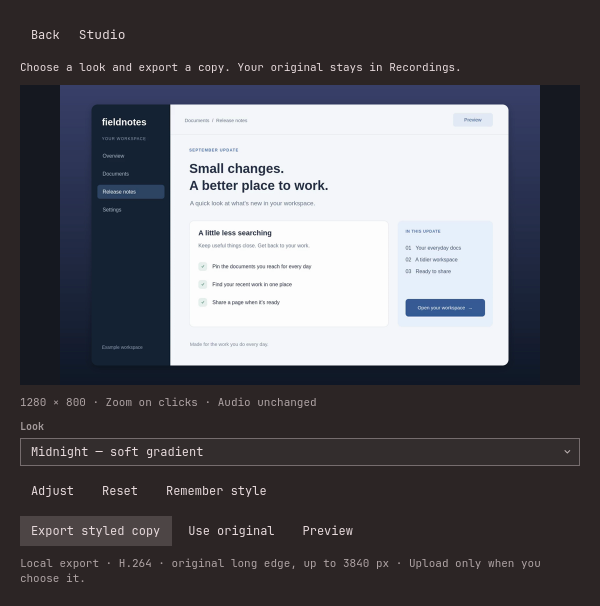
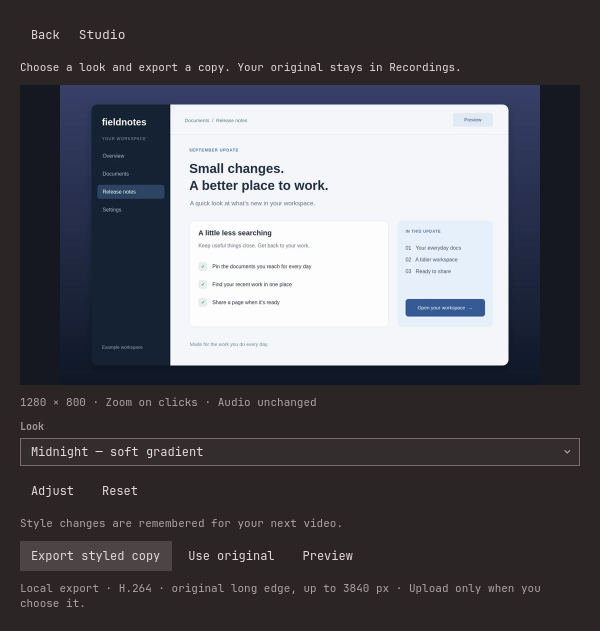
fix: remember Studio adjustments automatically

diff --git a/tests/studio-native.qml b/tests/studio-native.qml
@@ -10,6 +10,8 @@ ShellRoot {
   property bool completed: false
   property bool observedExport: false
   property bool failed: false
+  property bool reopening: __REOPEN__
+  property var remembered: null
   function expect(condition, message) {
     if (!condition) { failed = true; console.error("STUDIO TEST FAIL", message); Qt.quit() }
     return condition
@@ -18,6 +20,14 @@ ShellRoot {
     if (item.text === label && item.clicked !== undefined) return item
     for (var i=0; i<item.children.length; ++i) {
       var found = button(item.children[i], label)
+      if (found) return found
+    }
+    return null
+  }
+  function control(item, label) {
+    if (item.label === label) return item
+    for (var i=0; i<item.children.length; ++i) {
+      var found = control(item.children[i], label)
       if (found) return found
     }
     return null
@@ -35,7 +45,8 @@ ShellRoot {
         id: editor
         width: parent.width
         cli: __CLI__
-        Component.onCompleted: begin(__VIDEO__, {})
+        Component.onCompleted: begin(__VIDEO__, __SAVED_STYLE__)
+        onStyleSaved: function(saved) { remembered = saved }
         onFinished: completed = true
         onExportingChanged: if (exporting) {
           observedExport = true
@@ -51,9 +62,19 @@ ShellRoot {
       if (ticks > 500) { expect(false, "Timed out at stage " + stage + ": " + editor.feedback); return }
       if (failed) return
       if (stage === 0 && !editor.waiting && editor.renderedRevision === editor.revision) {
+        if (reopening) {
+          if (!expect(JSON.stringify(editor.style) === JSON.stringify(__SAVED_STYLE__), "New UI process must restore the stored style")) return
+          if (!expect(control(editor,"Spacing").value === "small" && control(editor,"Frame").value === "rounded", "Restored controls must show Compact and Rounded")) return
+          editor.adjusting = true
+          editor.cli = __FAIL_CLI__
+          control(editor,"Spacing").changed("large")
+          stage = 10
+          return
+        }
         if (!expect(JSON.stringify(editor.defaults()) === JSON.stringify(__DEFAULTS__), "QML/backend defaults diverge")) return
         if (!expect(button(editor,"Export styled copy").enabled, "Valid preview should enable export")) return
         if (!expect(!button(editor,"Add zoom here"), "Manual zoom controls must be absent")) return
+        if (!expect(!button(editor,"Remember style"), "Style changes must not need a separate save button")) return
         window.contentItem.grabToImage(function(result) { result.saveToFile(__SCREENSHOT__) })
         editor.preset("paper")
         editor.preview() // Start a request, then change settings while it runs.
@@ -71,18 +92,36 @@ ShellRoot {
       } else if (stage === 2 && !editor.waiting && editor.feedback !== "") {
         if (!expect(editor.renderedRevision === -1 && !button(editor,"Export styled copy").enabled,
                     "Failed preview must disable export")) return
-        editor.begin(__VIDEO__, {})
+        button(editor,"Reset").clicked()
         stage = 3
-      } else if (stage === 3 && !editor.waiting && editor.renderedRevision === editor.revision) {
+      } else if (stage === 3 && !editor.waiting && !editor.savingPreferences && editor.renderedRevision === editor.revision) {
         if (!expect(!editor.adjusting && editor.style.zoom === "1", "Reset restores a compact, unzoomed draft")) return
-        button(editor,"Remember style").clicked()
+        if (!expect(JSON.stringify(remembered) === JSON.stringify(__DEFAULTS__), "Reset must also save defaults")) return
+        editor.adjusting = true
+        control(editor,"Frame").changed("none")
+        control(editor,"Spacing").changed("large")
+        control(editor,"Frame").changed("rounded")
+        control(editor,"Spacing").changed("small")
+        control(editor,"Soft shadow").clicked()
+        control(editor,"Canvas").changed("landscape")
         stage = 4
-      } else if (stage === 4 && editor.feedback === "Style saved for your next Studio recording.") {
+      } else if (stage === 4 && !editor.savingPreferences && !editor.waiting && editor.renderedRevision === editor.revision) {
+        if (!expect(!editor.styleSaveError && remembered.padding === "small" && remembered.frame === "rounded"
+                    && remembered.shadow === false && remembered.aspect === "landscape", "Latest rapid adjustments must win")) return
         editor.exportCopy()
         stage = 5
       } else if (stage === 5 && completed) {
         expect(observedExport && !editor.exporting && editor.feedback === "", "Export completion")
-        console.log("STUDIO NATIVE PASS: preview, stale response, presets, failure, reset, save and export")
+        console.log("STUDIO NATIVE PASS: preview, stale response, reset, automatic preferences and export")
+        Qt.quit()
+      } else if (stage === 10 && !editor.savingPreferences && editor.styleSaveError !== "") {
+        if (!expect(button(editor,"Retry save").visible, "Save failures need a visible retry")) return
+        editor.cli = __CLI__
+        button(editor,"Retry save").clicked()
+        stage = 11
+      } else if (stage === 11 && !editor.savingPreferences && editor.styleSaveError === "") {
+        if (!expect(remembered.padding === "large", "Retry must save the current style")) return
+        console.log("STUDIO NATIVE PASS: restored preferences across process restart, save failure and retry")
         Qt.quit()
       }
     }

diff --git a/StudioEditor.qml b/StudioEditor.qml
@@ -4,8 +4,8 @@ import Quickshell.Io
 import qs.Commons as Commons
 import qs.Ui
 
-// A finishing panel, not a timeline editor. All settings are local drafts
-// until explicitly remembered. Export always creates a separate recording.
+// A finishing panel, not a timeline editor. Appearance changes are remembered
+// automatically. Export always creates a separate recording.
 Column {
   id: root
   property string cli: ""
@@ -19,10 +19,15 @@ Column {
   property int revision: 0
   property int renderedRevision: -1
   property int requestedRevision: -1
+  property string pendingStyle: ""
+  property string savingStyle: ""
+  property string styleSaveError: ""
+  readonly property bool savingPreferences: rememberProc.running || pendingStyle !== ""
   readonly property bool exporting: exportProc.running
   readonly property bool waiting: previewProc.running || debounce.running
   signal finished()
   signal editing(bool focused)
+  signal styleSaved(var saved)
   spacing: Commons.Style.space(10)
 
   function defaults() {
@@ -54,6 +59,7 @@ Column {
     revision++
     feedback = ""
     debounce.restart()
+    rememberStyle()
   }
   function preset(name) {
     // Keep framing choices when changing the look; Reset restores everything.
@@ -68,6 +74,25 @@ Column {
     revision++
     feedback = ""
     debounce.restart()
+    rememberStyle()
+  }
+  function rememberStyle() {
+    // Serialize writes and keep the newest snapshot if controls change while
+    // a previous write is running. Never merge an older style over a newer one.
+    pendingStyle = JSON.stringify(style)
+    styleSaveError = ""
+    savePendingStyle()
+  }
+  function savePendingStyle() {
+    if (rememberProc.running || !pendingStyle) return
+    savingStyle = pendingStyle
+    pendingStyle = ""
+    rememberProc.command = [cli, "config", "merge", JSON.stringify({studio:{style:JSON.parse(savingStyle)}})]
+    rememberProc.running = true
+  }
+  function resetStyle() {
+    begin(file, null)
+    rememberStyle()
   }
   function preview() {
     if (!file || exporting) return
@@ -117,7 +142,11 @@ Column {
     stdout: StdioCollector {}
     stderr: StdioCollector { id: rememberErr }
     onExited: function(code) {
-      root.feedback = code === 0 ? "Style saved for your next Studio recording." : (rememberErr.text.trim() || "Could not save your style. Try again.")
+      if (code === 0) {
+        root.styleSaveError = ""
+        root.styleSaved(JSON.parse(root.savingStyle))
+      } else root.styleSaveError = "Could not remember these changes. " + (rememberErr.text.trim() || "Try saving again.")
+      if (root.pendingStyle) root.savePendingStyle()
     }
   }
   Process {
@@ -190,15 +219,12 @@ Column {
     spacing: Commons.Style.space(6)
     enabled: !root.exporting
     Action { text: root.adjusting ? "Hide adjustments" : "Adjust"; onClicked: root.adjusting = !root.adjusting }
-    Action { text: "Reset"; onClicked: root.begin(root.file, null) }
-    Action {
-      text: rememberProc.running ? "Saving…" : "Remember style"
-      enabled: !rememberProc.running
-      onClicked: {
-        rememberProc.command = [root.cli,"config","merge",JSON.stringify({studio:{style:root.style}})]
-        rememberProc.running = true
-      }
-    }
+    Action { text: "Reset"; onClicked: root.resetStyle() }
+    Action { visible: root.styleSaveError !== ""; text: "Retry save"; enabled: !root.savingPreferences; onClicked: root.rememberStyle() }
+  }
+  Hint {
+    text: root.savingPreferences ? "Saving your style…" : root.styleSaveError || "Style changes are remembered for your next video."
+    opacity: root.styleSaveError ? 1 : 0.7
   }
   Column {
     width: parent.width

diff --git a/BarWidget.qml b/BarWidget.qml
@@ -518,6 +518,15 @@ Panel {
           width: parent.width
           visible: root.page === "studio"
           cli: root.cli
+          onStyleSaved: function(saved) {
+            // Update immediately as well as reloading the file: config writes
+            // replace it atomically, so a file watcher can miss that change.
+            var updated = JSON.parse(JSON.stringify(root.config))
+            updated.studio = updated.studio || {}
+            updated.studio.style = saved
+            root.config = updated
+            configFile.reload()
+          }
           onEditing: function(focused) { root.editing = focused }
           onFinished: { root.page = "launcher"; root.refreshAll(); indexFile.reload() }
         }

diff --git a/tests/studio-native.py b/tests/studio-native.py
@@ -9,6 +9,7 @@ import json
 import os
 from pathlib import Path
 import shutil
+import shlex
 import subprocess
 import tempfile
 
@@ -42,28 +43,41 @@ def main():
             file.write_text("#!/bin/sh\n"+body+"\n")
             file.chmod(0o700)
         screenshot = temp/"preview.png"
+        # Make writes overlap so the real UI must queue the latest selection.
+        cli = temp/"slow-cli"
+        cli.write_text('#!/bin/bash\nif [[ $1 == config && $2 == merge ]]; then sleep 0.15; fi\nexec '
+                       + shlex.quote(str(ROOT/"bin/omareel")) + ' "$@"\n')
+        cli.chmod(0o700)
+        fail_cli = temp/"fail-cli"
+        fail_cli.write_text('#!/bin/sh\necho "Simulated settings write failure" >&2\nexit 1\n')
+        fail_cli.chmod(0o700)
         template = (ROOT/"tests/studio-native.qml").read_text()
-        for marker, value in {"__CLI__":str(ROOT/"bin/omareel"),"__VIDEO__":str(video),
+        for marker, value in {"__CLI__":str(cli),"__FAIL_CLI__":str(fail_cli),"__VIDEO__":str(video),
                               "__DEFAULTS__":studio.DEFAULTS,"__SCREENSHOT__":str(screenshot)}.items():
             template = template.replace(marker,json.dumps(value))
-        (temp/"shell.qml").write_text(template)
         env = dict(os.environ, QT_QPA_PLATFORM="offscreen",QT_QUICK_BACKEND="software",QT_QPA_PLATFORMTHEME="",XDG_RUNTIME_DIR=directory,
                    XDG_CACHE_HOME=str(temp/"cache"),OMAREEL_CONFIG=str(config),RCLONE_CONFIG=str(temp/"unused.conf"),
                    PATH=str(mocks)+os.pathsep+os.environ["PATH"])
         env.pop("OMAREEL_OPERATION_LOCKED",None)
-        result = subprocess.run(["quickshell","-p",directory,"--no-color"],env=env,capture_output=True,text=True,timeout=60)
-        output = result.stdout+result.stderr
-        assert result.returncode == 0 and "STUDIO NATIVE PASS" in output, output
-        for error in ("STUDIO TEST FAIL","ReferenceError","TypeError","Unable to assign","Failed to load configuration"):
-            assert error not in output, output
-        saved = json.loads(config.read_text())
-        assert saved["studio"]["style"] == studio.DEFAULTS
-        assert saved["studio"]["enabled"] is False and saved["mic"] is False
+        expected = studio.DEFAULTS | dict(preset="custom",padding="small",shadow=False,aspect="landscape")
+        for reopening in (False, True):
+            previous = json.loads(config.read_text())["studio"].get("style", {})
+            qml = template.replace("__REOPEN__",json.dumps(reopening)).replace("__SAVED_STYLE__",json.dumps(previous))
+            (temp/"shell.qml").write_text(qml)
+            result = subprocess.run(["quickshell","-p",directory,"--no-color"],env=env,capture_output=True,text=True,timeout=60)
+            output = result.stdout+result.stderr
+            assert result.returncode == 0 and "STUDIO NATIVE PASS" in output, output
+            for error in ("STUDIO TEST FAIL","ReferenceError","TypeError","Unable to assign","Failed to load configuration"):
+                assert error not in output, output
+            saved = json.loads(config.read_text())
+            assert saved["studio"]["style"] == (expected | dict(padding="large") if reopening else expected), saved
+            assert saved["studio"]["enabled"] is False and saved["mic"] is False
+            assert saved["upload"] == {"provider":"none"} and saved["outputDir"] == directory
         state = json.loads((temp/"omareel/state.json").read_text())
         assert state["phase"] == "done" and state["file"] != str(video)
         assert Path(state["file"]).is_file() and video.is_file()
         assert screenshot.is_file()
-        print("PASS: native offscreen Studio controls, real preview/export, preserved config and original")
+        print("PASS: native Studio controls/export, automatic last-style persistence, fresh-process restore, failure/retry, preserved config and original")
 
 
 if __name__ == "__main__":

diff --git a/docs/0.9.3-testing.md b/docs/0.9.3-testing.md
@@ -81,7 +81,10 @@ MP4s remain playable. Keep Studio sidecars if you want to restyle those takes.
    smoothly, preserve motion, and keep speech/camera synchronized.
 5. Compare voice and pauses in original versus Studio export. Try Paper and a
    portrait canvas. Reopen the original and check it is unchanged.
-6. Turn Zoom on clicks off and repeat. Then turn Studio off and record once.
+6. Change Frame and Spacing in Adjust, close Studio, and make another take.
+   Verify the same choices return without a separate save step, including after
+   restarting the unlocked shell. Reset should also persist.
+7. Turn Zoom on clicks off and repeat. Then turn Studio off and record once.
    Neither should leave a stuck Stop control or unexpected zooms.
 
 Then repeat Window and Screen, the keyboard Stop shortcut, other camera positions,
@@ -151,3 +154,11 @@ offscreen check also runs in a restricted session without an X display.
 
 Older-version Studio verification remains pending. Archdev keeps its installed
 0.9.2 release; its existing compatibility results above still stand.
+
+### Automatic Studio preferences follow-up
+
+The native UI check now rapidly changes Frame/Spacing/Shadow/Canvas while a
+previous settings write is deliberately slowed, then verifies the last selection
+in the settings file. A second Quickshell process restores it and checks the
+visible control values. Reset, a simulated write failure and Retry save are
+covered. Other Studio toggles, mic, sharing and output settings are preserved.

diff --git a/docs/studio-mode.md b/docs/studio-mode.md
@@ -50,10 +50,16 @@ continue; the bar shows it is busy until the copy is ready.
 | Canvas | Original aspect ratio | Landscape 16:9, Square 1:1, Portrait 9:16 |
 | Zoom on clicks | Off | Enable before recording; zooms follow recorded clicks |
 
-**Remember style** saves the appearance for later; it does not turn
-Studio on, change microphone settings, or change your sharing destination.
-**Reset** restores the current draft to defaults; remember it if you also want
-to reset your saved preference. Switching looks keeps your canvas/zoom choices.
+Appearance changes save automatically for your next video: look, background,
+spacing, frame, shadow and canvas. There is no separate **Remember style** step.
+The status below Adjust shows when a save is running; if it fails, **Retry save**
+tries again. Changes are stored locally in `studio.style` in Omareel's settings.
+They do not turn Studio on, change microphone settings, or change sharing.
+
+**Reset** restores and saves the defaults. Switching looks keeps your canvas
+choice, while applying that look's background, frame, spacing and shadow.
+Restyling an existing Studio export opens that video's own saved appearance;
+new recordings start with your most recently remembered choices.
 
 Local backgrounds must be PNG, JPEG or WebP files up to 50 MB / 40 megapixels. Paste their local
 path in Adjust; web URLs and SVG are deliberately not accepted. If you move or

diff --git a/README.md b/README.md
@@ -49,7 +49,8 @@ toggle off for an uninterrupted view of the screen.
 Choose **Midnight**, **Paper**, or **Minimal**, then export a styled copy.
 Adjust the background, spacing, frame, and shadow when you need to. Keep the
 original aspect ratio, or choose landscape, square, or portrait. Use a local
-image for your own background.
+image for your own background. Your adjustments are remembered automatically
+for the next video, including frame, spacing, shadow, and canvas.
 
 <p align="center">
   <img src="docs/studio-editor.png" width="560" alt="Actual Omareel Studio editor with the Midnight preview, look selection, and Export styled copy action">
